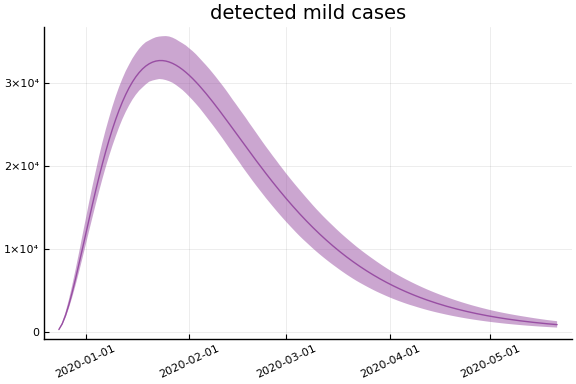
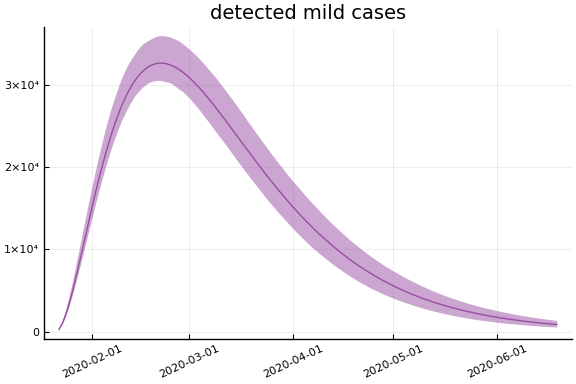
Deployed 760caf1 with MkDocs version: 1.1

diff --git a/china/index.html b/china/index.html
@@ -185,18 +185,18 @@ n…  │
 </code></pre>
 <h1 id="china">China<a class="headerlink" href="#china" title="Permanent link">&para;</a></h1>
 <pre><code class="julia">using Dates
-dayt0 = Dates.Date(&quot;2020-01-22&quot;) - Dates.Day(30)
-china = CountryData(covdf, &quot;China&quot;, 30)
+dayt0 = Dates.Date(&quot;2020-01-22&quot;) - Dates.Day(1)
+china = CountryData(covdf, &quot;China&quot;, 1)
 </code></pre>
 
-<pre><code>CountryData{Float64,Int64}(1.39273e9, [30, 31, 32, 33, 34, 35, 36, 37, 38, 
-39  …  89, 90, 91, 92, 93, 94, 95, 96, 97, 98], [17.0, 18.0, 26.0, 42.0, 56
-.0, 82.0, 131.0, 133.0, 171.0, 213.0  …  3259.0, 3274.0, 3274.0, 3281.0, 32
-85.0, 3291.0, 3296.0, 3299.0, 3304.0, 3308.0], [28.0, 30.0, 36.0, 39.0, 49.
-0, 58.0, 101.0, 120.0, 135.0, 214.0  …  71857.0, 72362.0, 72814.0, 73280.0,
- 73773.0, 74181.0, 74720.0, 75100.0, 75582.0, 75923.0], [503.0, 595.0, 858.
-0, 1325.0, 1970.0, 2737.0, 5277.0, 5834.0, 7835.0, 9375.0  …  6189.0, 5799.
-0, 5410.0, 5030.0, 4603.0, 4310.0, 3881.0, 3600.0, 3236.0, 2967.0])
+<pre><code>CountryData{Float64,Int64}(1.39273e9, [1, 2, 3, 4, 5, 6, 7, 8, 9, 10  …  60
+, 61, 62, 63, 64, 65, 66, 67, 68, 69], [17.0, 18.0, 26.0, 42.0, 56.0, 82.0,
+ 131.0, 133.0, 171.0, 213.0  …  3259.0, 3274.0, 3274.0, 3281.0, 3285.0, 329
+1.0, 3296.0, 3299.0, 3304.0, 3308.0], [28.0, 30.0, 36.0, 39.0, 49.0, 58.0, 
+101.0, 120.0, 135.0, 214.0  …  71857.0, 72362.0, 72814.0, 73280.0, 73773.0,
+ 74181.0, 74720.0, 75100.0, 75582.0, 75923.0], [503.0, 595.0, 858.0, 1325.0
+, 1970.0, 2737.0, 5277.0, 5834.0, 7835.0, 9375.0  …  6189.0, 5799.0, 5410.0
+, 5030.0, 4603.0, 4310.0, 3881.0, 3600.0, 3236.0, 2967.0])
 </code></pre>
 <pre><code class="julia">using Turing
 mdl = countrymodel(china)

diff --git a/index.html b/index.html
@@ -236,5 +236,5 @@
 
 <!--
 MkDocs version : 1.1
-Build Date UTC : 2020-03-31 01:18:54
+Build Date UTC : 2020-03-31 01:27:00
 -->
